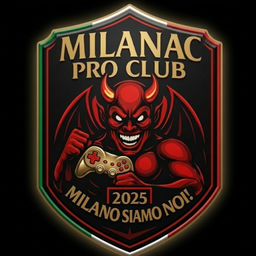
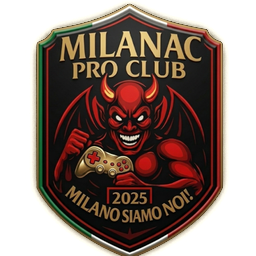
Stemma con il fondo trasparente
Tolto solo il nero intorno allo scudo: riempimento dagli angoli (4 vicini, pixel più
scuri di 90 su 255, ben sotto la soglia a cui il riempimento entrerebbe nello scudo)
e, dentro quella zona, l'alone trasformato in trasparenza con il colore "tolto dal
nero" (bordo sfumato, sopra il nero resta come prima). Nel tema chiaro accesso,
"Nessuna connessione", account sospeso e storia non mostrano più un quadrato nero.

Claude-Session: https://claude.ai/code/session_01AqbAUFgzRc6jubsGkqE32q

diff --git a/test/stemma_test.dart b/test/stemma_test.dart
@@ -1,0 +1,43 @@
+import 'dart:io';
+import 'dart:ui' as ui;
+
+import 'package:flutter_test/flutter_test.dart';
+
+void main() {
+  TestWidgetsFlutterBinding.ensureInitialized();
+
+  test('stemma: fuori dallo scudo è trasparente (niente quadrato nero sul tema '
+      'chiaro), lo scudo resta pieno', () async {
+    final bytes = File('assets/images/stemma_256.png').readAsBytesSync();
+    final codec = await ui.instantiateImageCodec(bytes);
+    final image = (await codec.getNextFrame()).image;
+    final pixels = (await image.toByteData(
+      format: ui.ImageByteFormat.rawRgba,
+    ))!;
+    final w = image.width, h = image.height;
+    int alpha(int x, int y) => pixels.getUint8((y * w + x) * 4 + 3);
+
+    for (final (x, y) in [(0, 0), (w - 1, 0), (0, h - 1), (w - 1, h - 1)]) {
+      expect(alpha(x, y), 0, reason: 'angolo $x,$y');
+    }
+    // Il centro dello scudo e le scritte restano pieni.
+    expect(alpha(w ~/ 2, h ~/ 2), 255);
+    expect(alpha(w ~/ 2, h ~/ 4), 255);
+    expect(alpha(w ~/ 4, h ~/ 2), 255);
+
+    var clear = 0, solid = 0;
+    for (var y = 0; y < h; y++) {
+      for (var x = 0; x < w; x++) {
+        final a = alpha(x, y);
+        if (a == 0) clear++;
+        if (a == 255) solid++;
+      }
+    }
+    // Più di un quarto del tutto trasparente (il nero intorno), più di metà scudo pieno;
+    // in mezzo solo l'alone sfumato del bordo.
+    expect(clear / (w * h), greaterThan(.25));
+    expect(solid / (w * h), greaterThan(.55));
+    image.dispose();
+    codec.dispose();
+  });
+}
